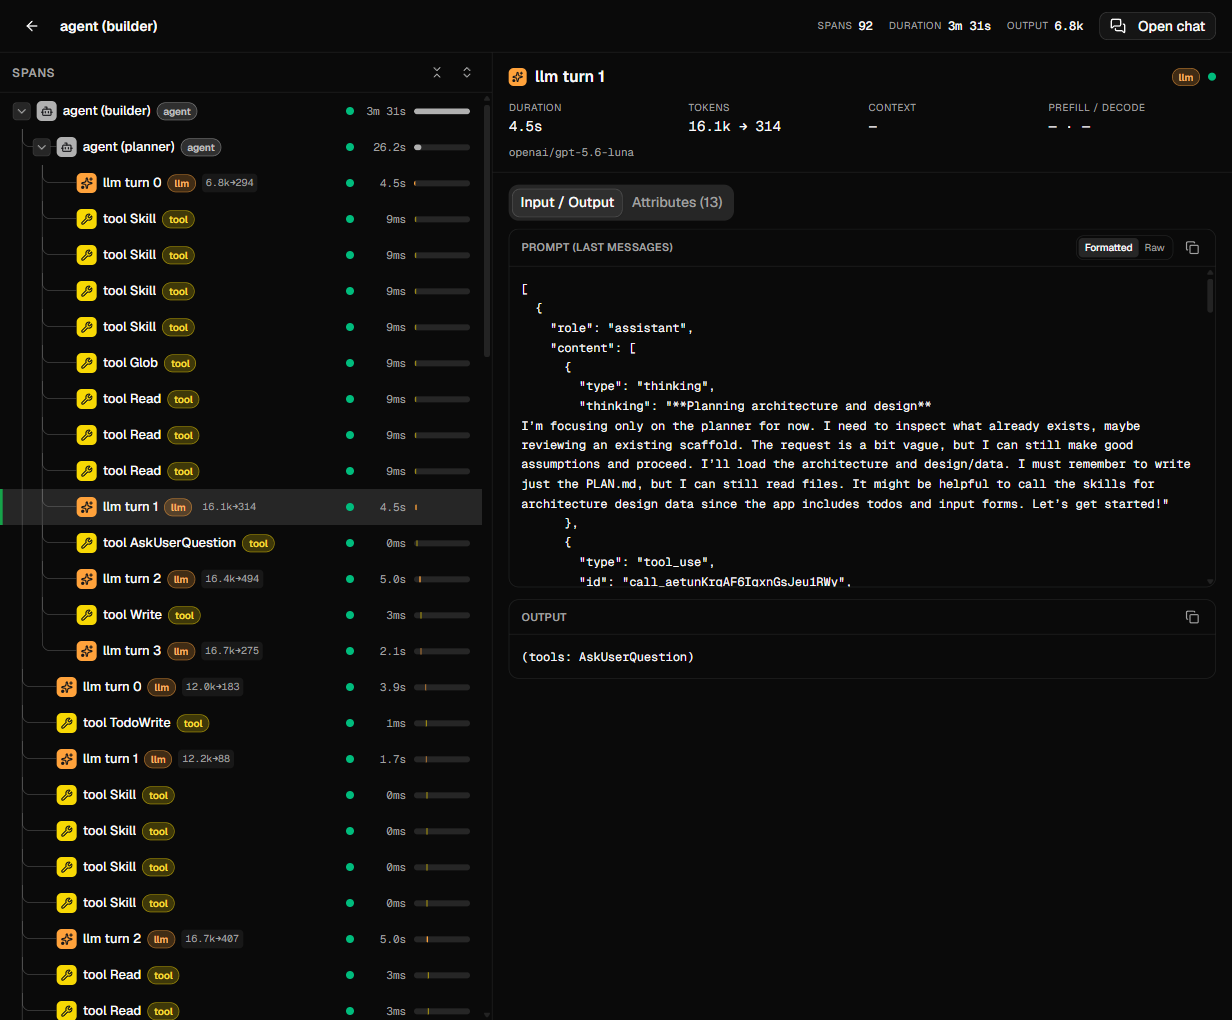
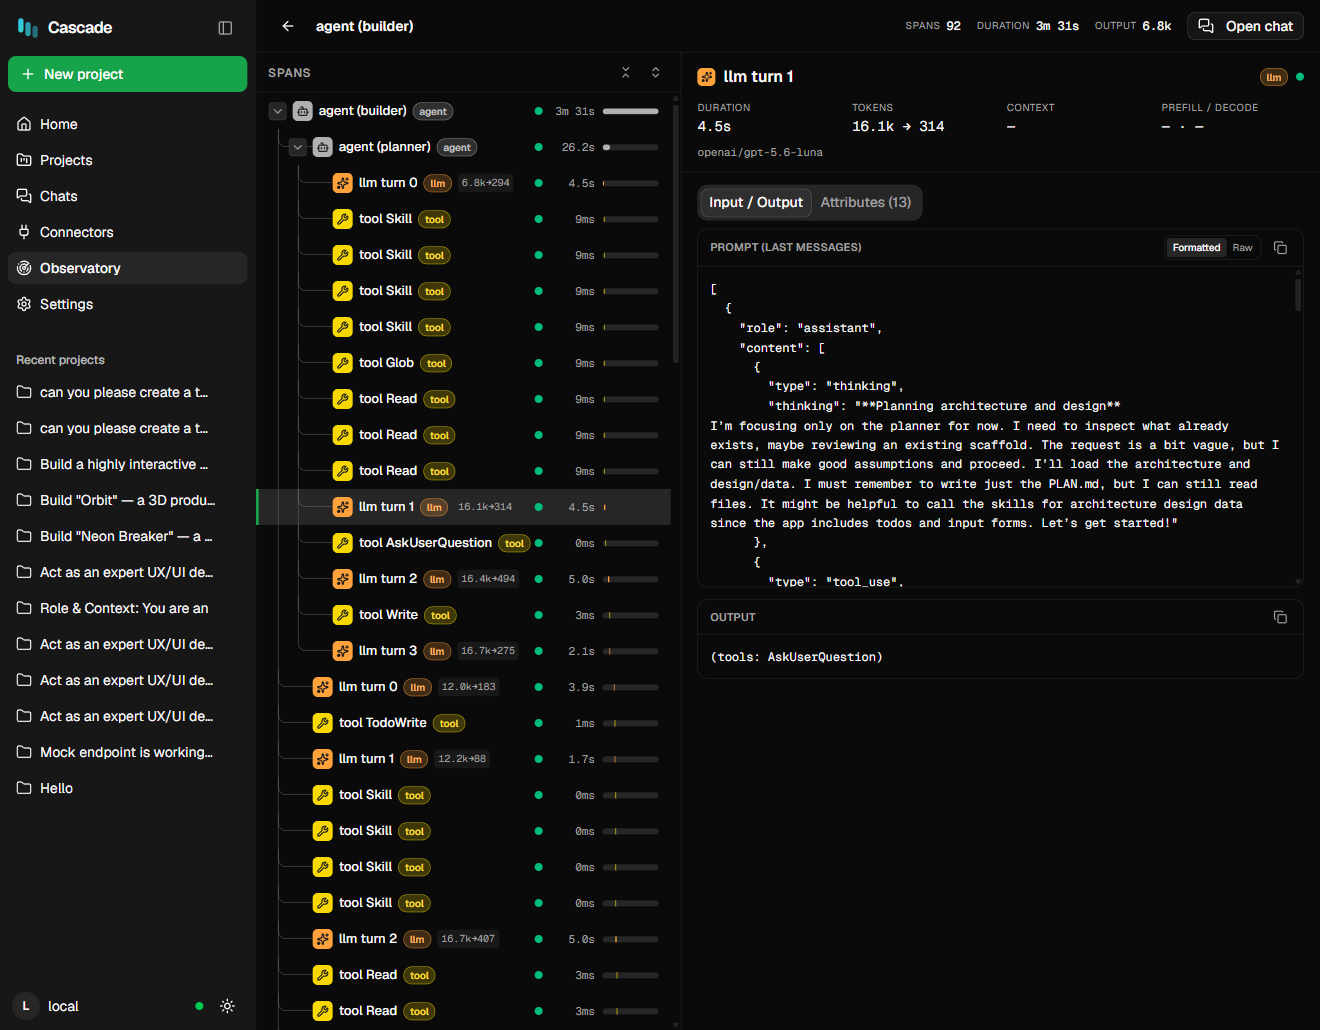
site: put the app chrome back in the observability shot
I had collapsed the nav rail when taking it, reasoning that the shot should be the
FEATURE and not the chrome. Wrong call: on a marketing page the branded rail — the
wordmark, the nav, Observatory lit up in it — is part of what the section is
showing. Retaken with the sidebar open.

The first retake still read as an empty product ("Recent projects — No projects
yet"): the server defaults its projects root to cwd/cascade-projects, and running it
from the repo root pointed it at a directory that does not exist. The real 46
projects live under packages/server/cascade-projects, because `npm run dev -w
@cascade/server` puts cwd there. Shot now has the real list.

1320x1030 (203 KB), aspect 1.28 — still close to the rail's height, so the stage
does not read as short beside it.

diff --git a/site/index.html b/site/index.html
@@ -1657,8 +1657,8 @@ footer .wrap:last-of-type { padding-bottom: 60px; }
 
 			<div class="mm-stage obs-stage rv">
 				<div class="obs-frame">
-					<img src="assets/observatory.png" width="1232" height="1020" loading="lazy" decoding="async"
-					     alt="Cascade's Observatory: a span waterfall showing an agent turn with a nested planner sub-agent, beside the selected model call's full prompt, reasoning and token counts." />
+					<img src="assets/observatory.png" width="1320" height="1030" loading="lazy" decoding="async"
+					     alt="Cascade's Observatory: the span waterfall for one agent turn, with a nested planner sub-agent, beside the selected model call's full prompt, reasoning and token counts." />
 				</div>
 			</div>
 		</div>
